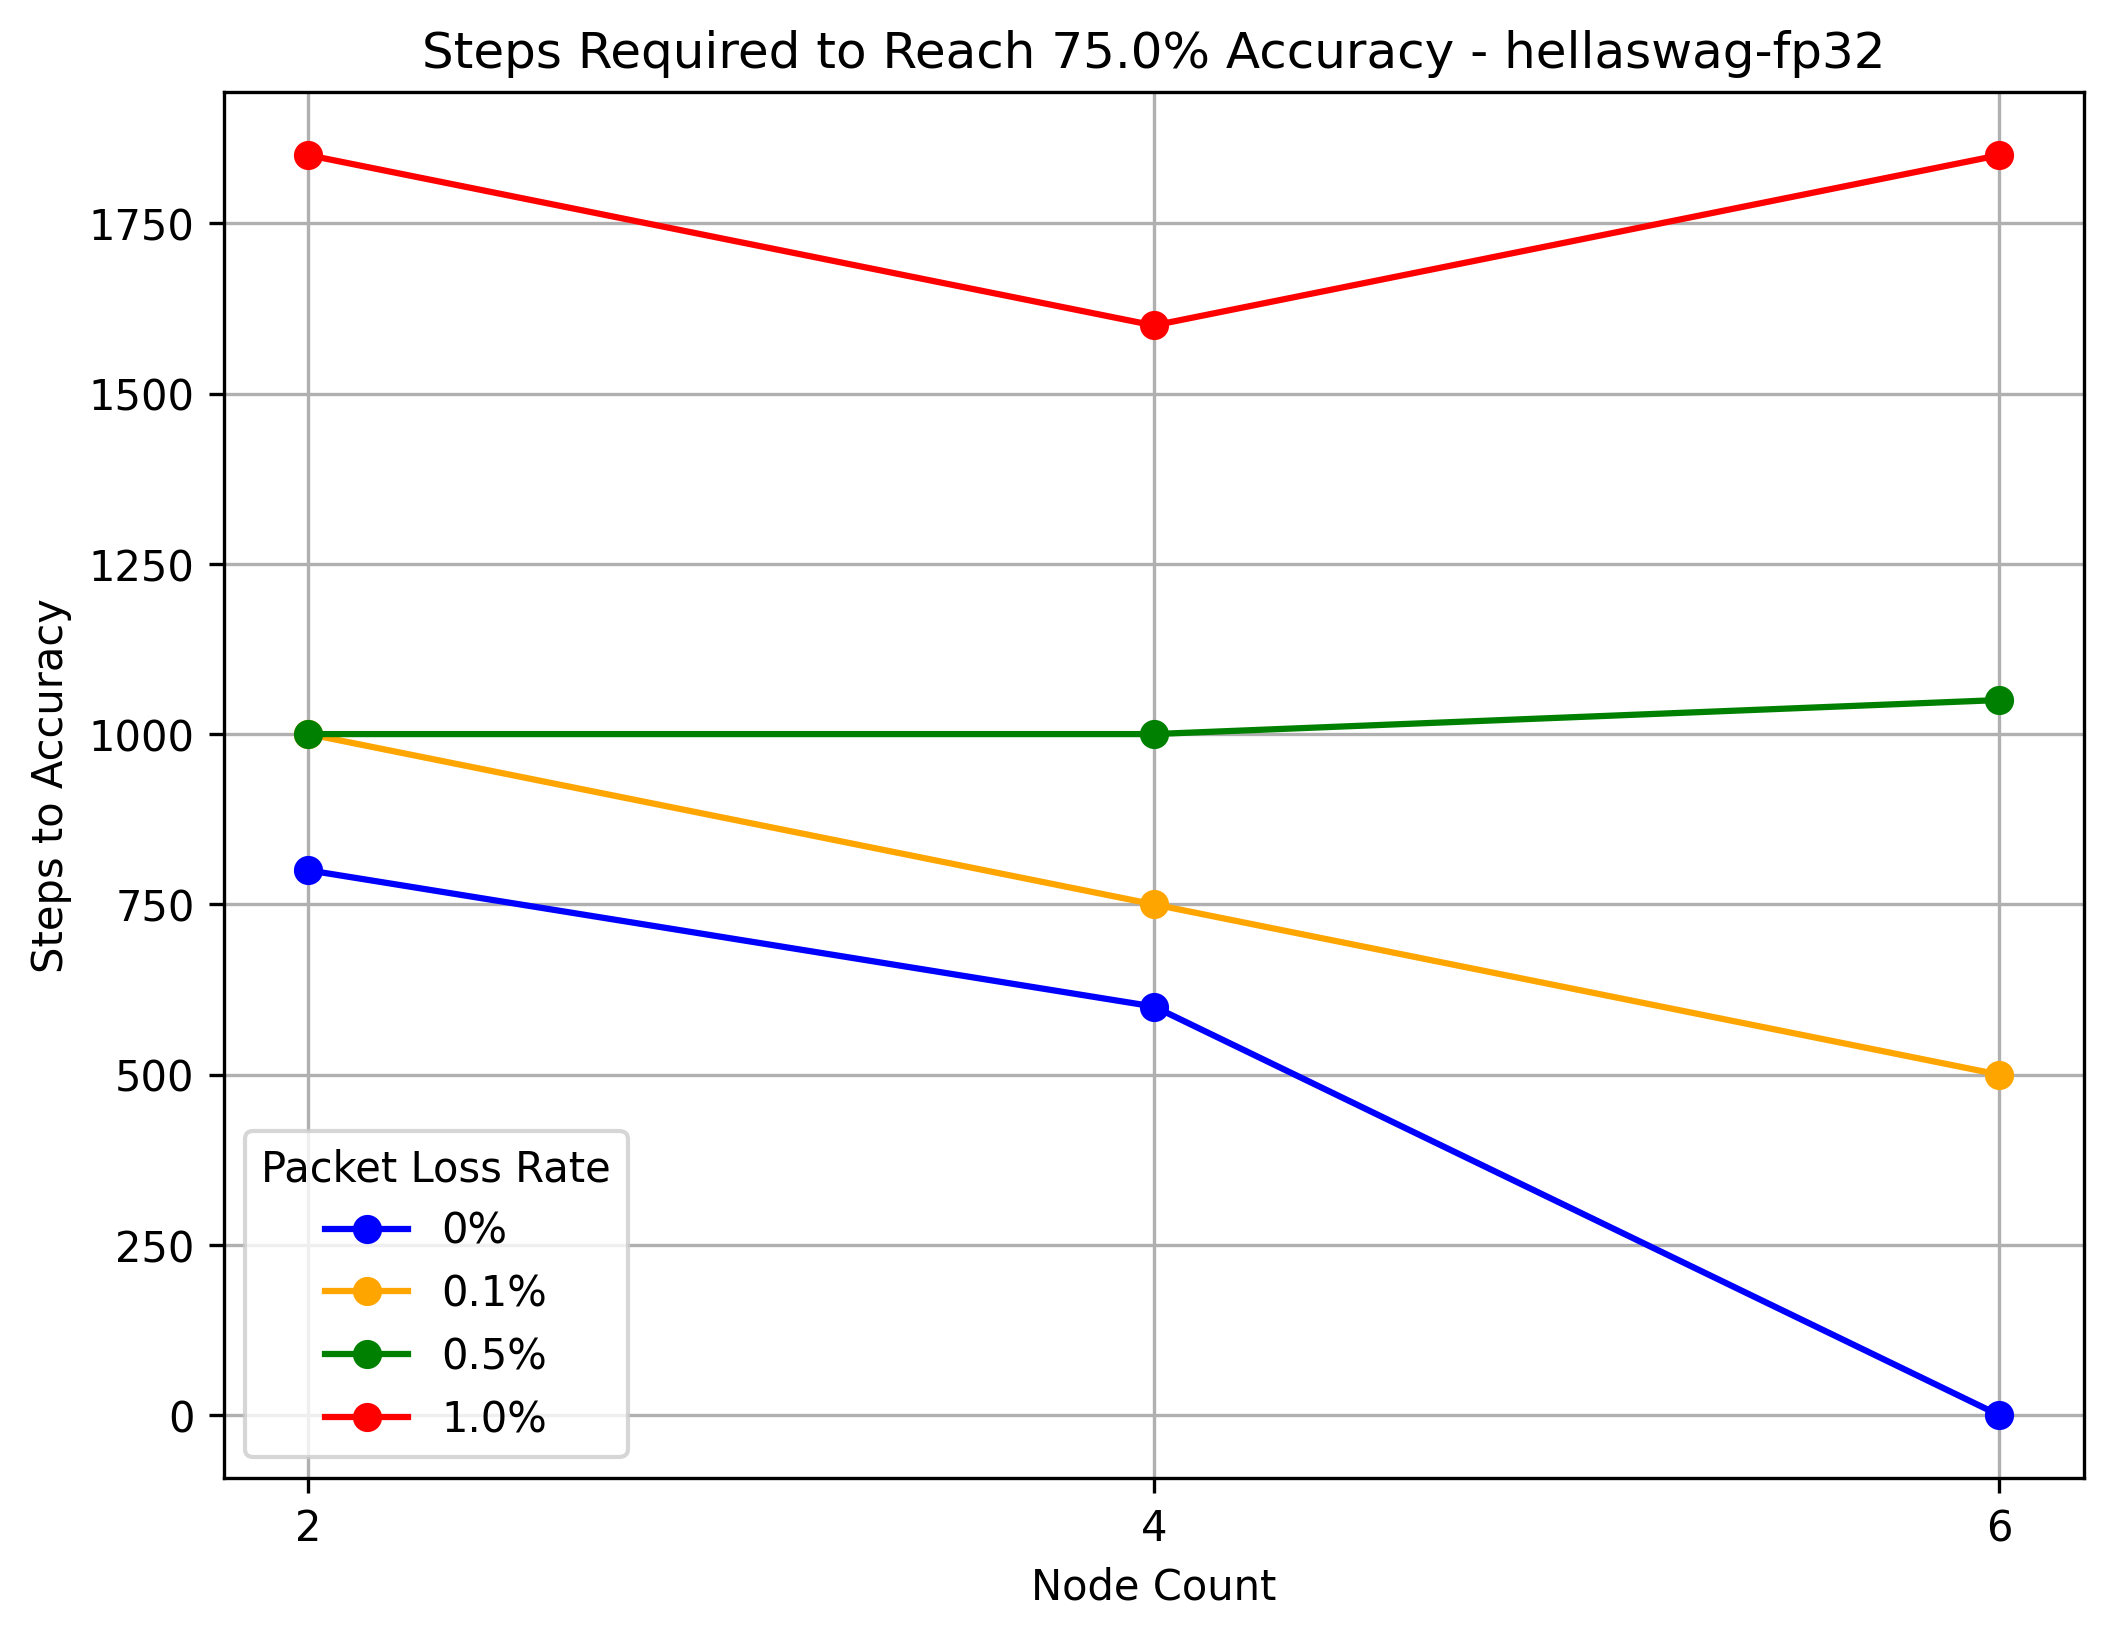
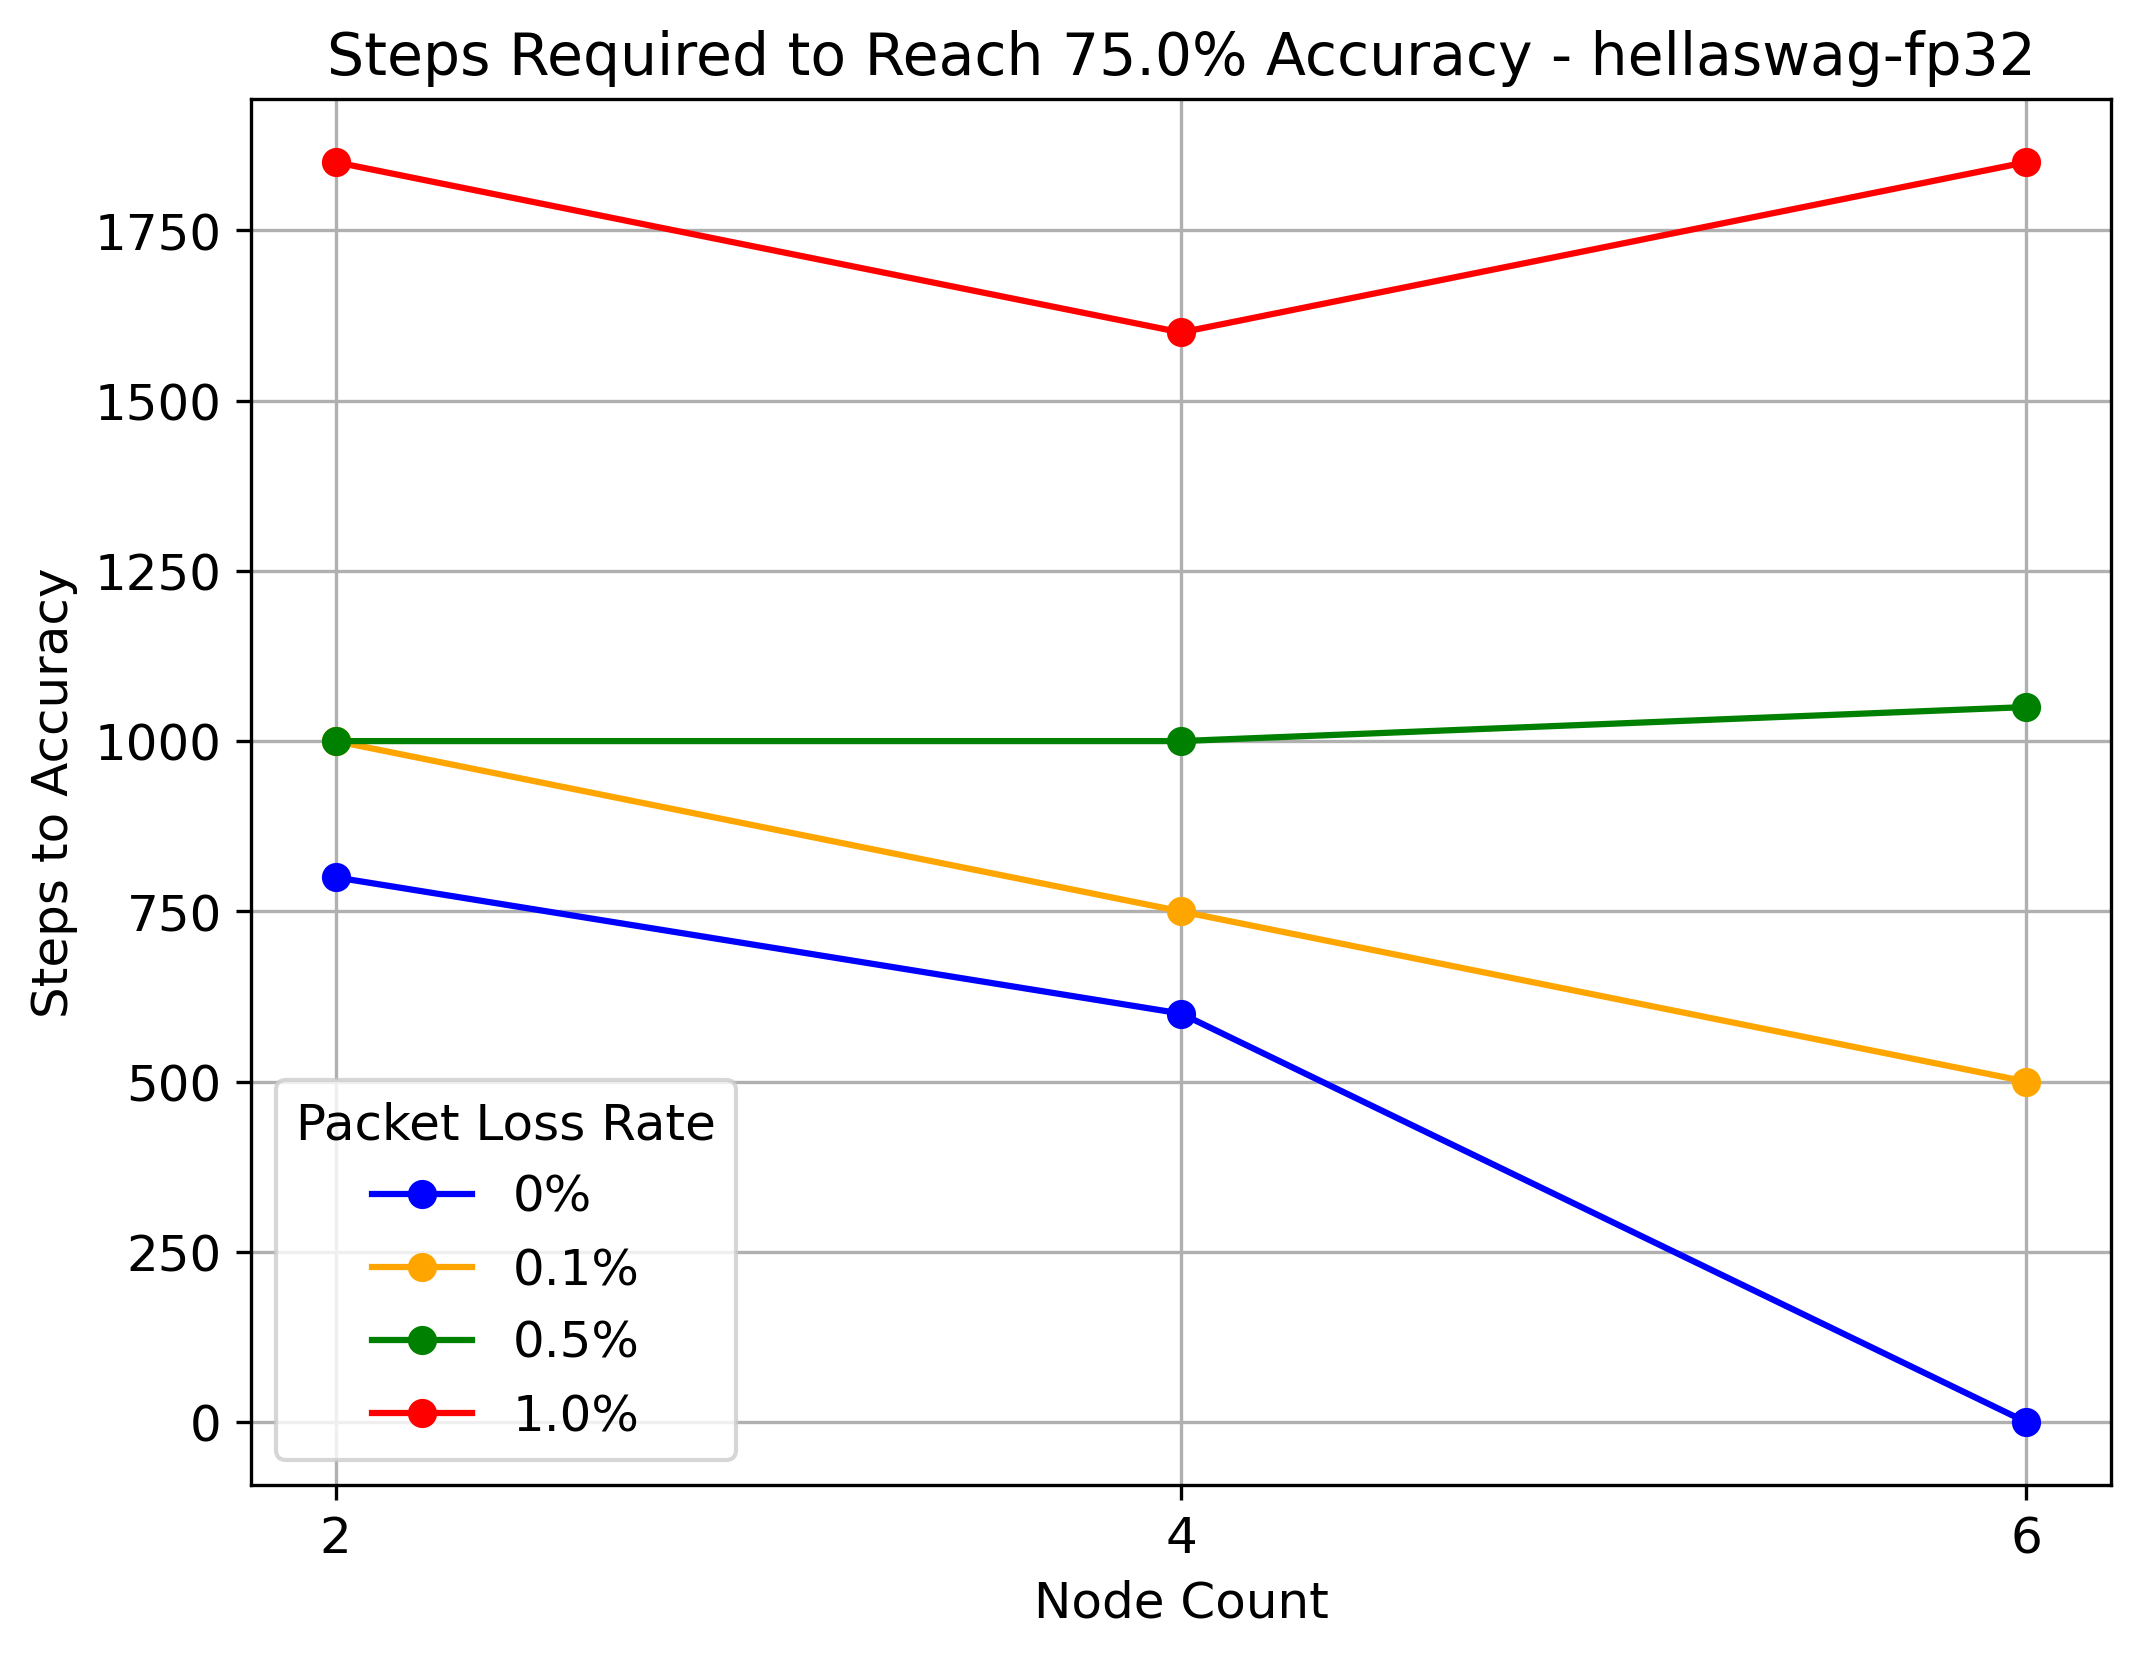
increase font size

diff --git a/plot_and_save_results.py b/plot_and_save_results.py
@@ -3,35 +3,39 @@ import matplotlib.pyplot as plt
 import os
 
 def plot_steps_vs_nodes(data, dataset_name, save_path, accuracy_threshold=0.75):
+    plt.rcParams.update({'font.size': 12})  # Set base font size
     fig, ax = plt.subplots(figsize=(8, 6), dpi=300)
-    ax.set_title(f"Steps Required to Reach {accuracy_threshold*100}% Accuracy - {dataset_name}")
-    ax.set_xlabel("Node Count")
-    ax.set_ylabel("Steps to Accuracy")
+    ax.set_title(f"Steps Required to Reach {accuracy_threshold*100}% Accuracy - {dataset_name}", fontsize=14)
+    ax.set_xlabel("Node Count", fontsize=12)
+    ax.set_ylabel("Steps to Accuracy", fontsize=12)
     x = [2, 4, 6]
     ax.set_xticks(x)
-    ax.set_xticklabels(["2", "4", "6"])
+    ax.set_xticklabels(["2", "4", "6"], fontsize=12)
+    ax.tick_params(axis='both', which='major', labelsize=12)
     ax.plot(x, data["0"], label="0%", marker='o', color='blue')
     ax.plot(x, data["0.001"], label="0.1%", marker='o', color='orange')
     ax.plot(x, data["0.005"], label="0.5%", marker='o', color='green')
     ax.plot(x, data["0.01"], label="1.0%", marker='o', color='red')
-    ax.legend(title="Packet Loss Rate")
+    ax.legend(title="Packet Loss Rate", title_fontsize=12, fontsize=12)
     ax.grid()
     plt.savefig(save_path, bbox_inches='tight')
     plt.close()
 
 def plot_steps_vs_loss_rate(data, dataset_name, save_path):
+    plt.rcParams.update({'font.size': 12})  # Set base font size
     fig, ax = plt.subplots(figsize=(8, 6), dpi=300)
-    ax.set_title(f"Steps to Accuracy When Trained on 4 nodes- {dataset_name}")
-    ax.set_xlabel("Packet Loss Rate (%)")
-    ax.set_ylabel("Steps")
+    ax.set_title(f"Steps to Accuracy When Trained on 4 nodes- {dataset_name}", fontsize=14)
+    ax.set_xlabel("Packet Loss Rate (%)", fontsize=12)
+    ax.set_ylabel("Steps", fontsize=12)
     x = [0.0, 0.1, 0.5, 1.0]
     ax.set_xticks(x)
-    ax.set_xticklabels([str(i) for i in x])
+    ax.set_xticklabels([str(i) for i in x], fontsize=12)
+    ax.tick_params(axis='both', which='major', labelsize=12)
     accuracies = list(data.keys())
     for i in range(len(accuracies)):
         acc = accuracies[i]
         ax.plot(x, data[acc], label=acc, marker='o')
-    ax.legend(title="Accuracy")
+    ax.legend(title="Accuracy", title_fontsize=12, fontsize=12)
     ax.grid()
 
     plt.savefig(save_path, bbox_inches='tight')
